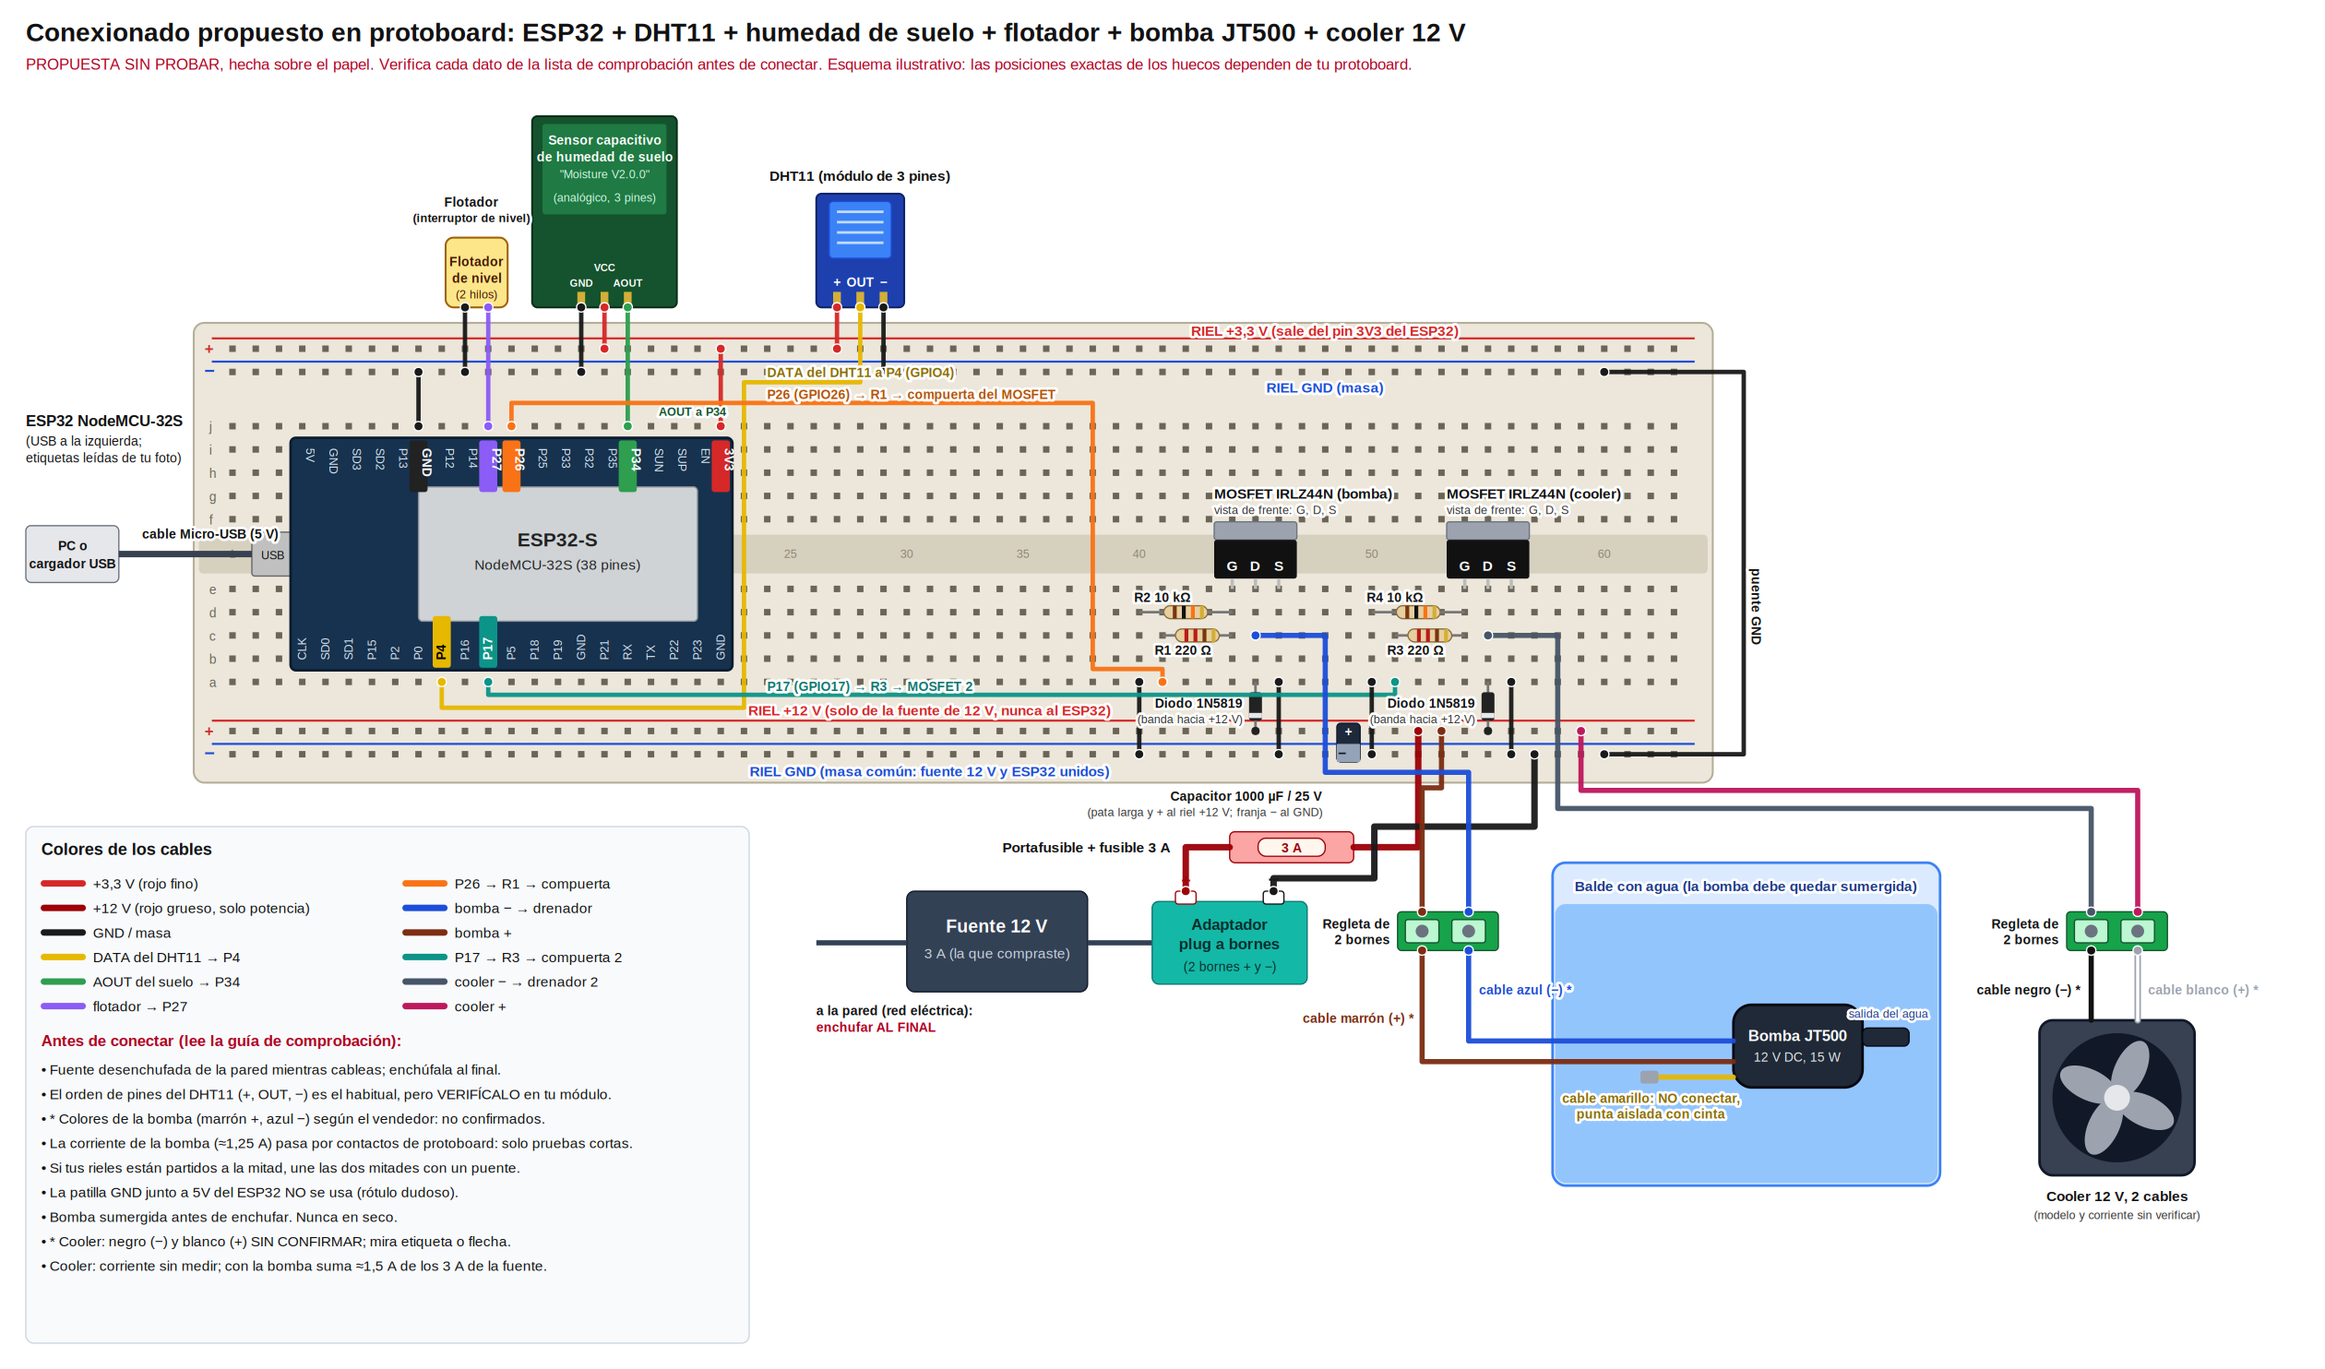
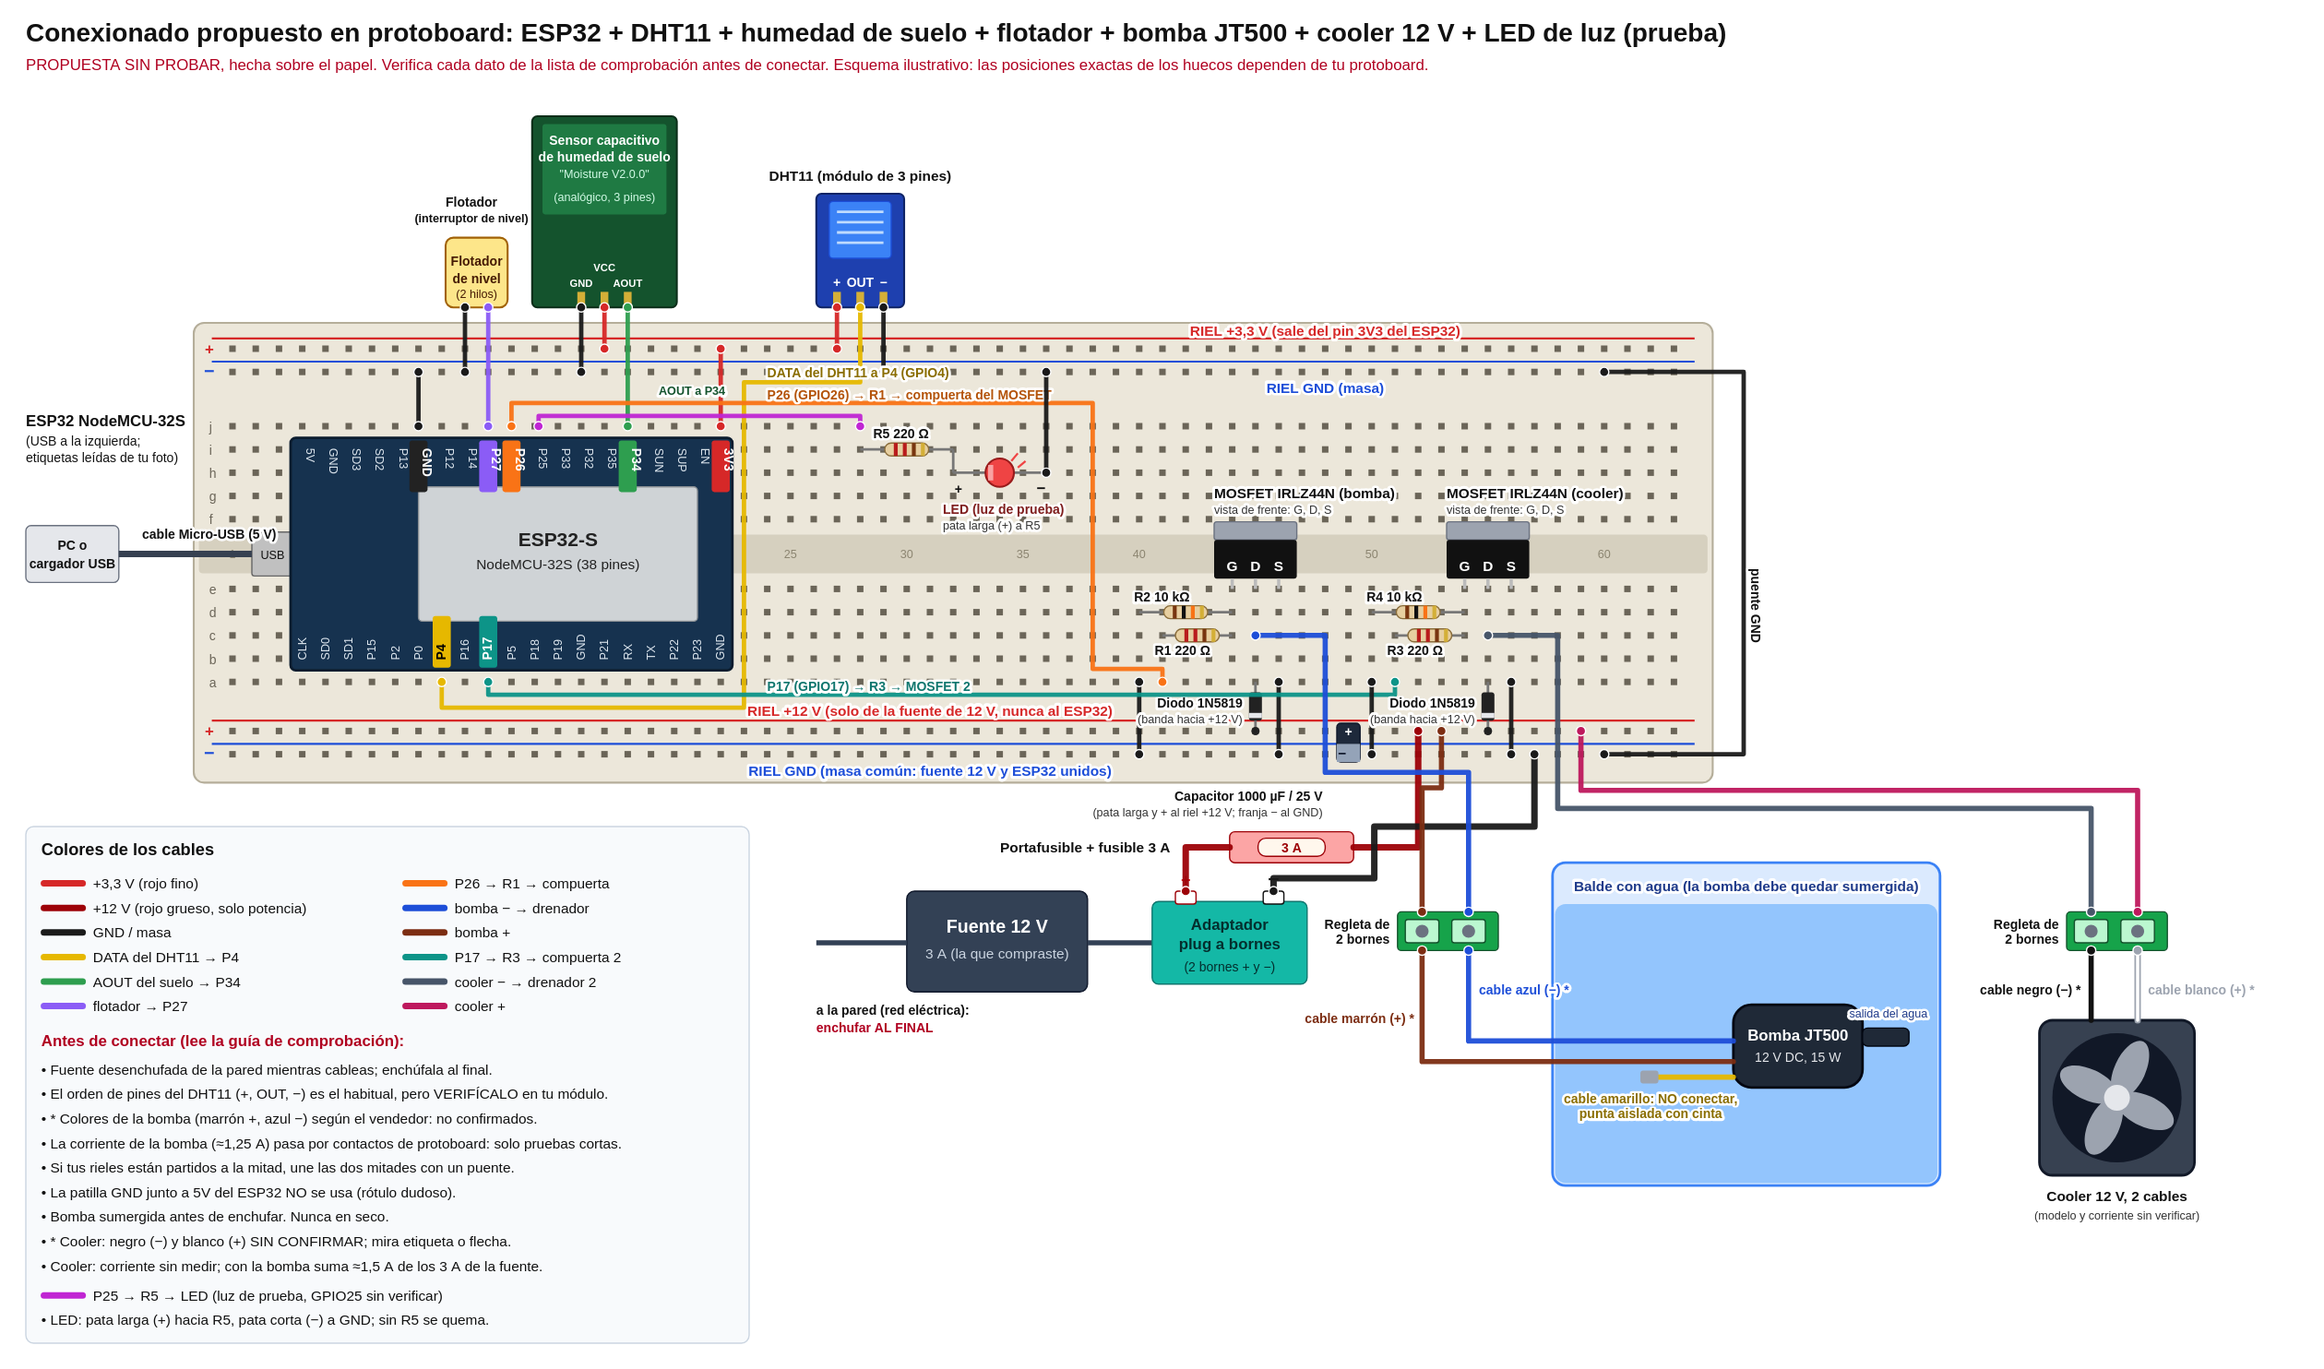
Agrega el control de la luz por horario (20:00-06:00) y el LED al conexionado
- src/light.cpp: salida en GPIO25, encendida de 20:00 a 06:00 hora local (UTC-3);
  sin hora NTP queda apagada; la tecla 'l' alterna modo manual y automatico.
- main.cpp: integra la luz y pasa configTime a UTC-3 (MQTT sigue publicando en UTC).
- Probada en hardware solo la tecla 'l' con un LED (confirmacion del usuario); el
  horario automatico aun no se observo.
- Conexionado: LED con R5 de 220 ohm en P25 (gráfico y tabla) y riesgo de rieles
  divididos de la protoboard.

diff --git a/src/light.cpp b/src/light.cpp
@@ -1,0 +1,64 @@
+#include "light.h"
+#include <time.h>
+
+constexpr uint8_t LIGHT_PIN = 25;
+constexpr int LIGHT_ON_HOUR = 20;   // enciende a las 20:00 (hora local)
+constexpr int LIGHT_OFF_HOUR = 6;   // apaga a las 06:00 (hora local)
+constexpr time_t MIN_VALID_EPOCH = 1704067200;  // 2024-01-01: antes de eso no hay hora NTP
+
+static bool on = false;
+static bool manual = false;
+
+static void setLight(bool state) {
+  digitalWrite(LIGHT_PIN, state ? HIGH : LOW);
+  on = state;
+}
+
+// true si la hora local cae dentro de la ventana de encendido (puede cruzar la medianoche).
+static bool inWindow(int hour) {
+  if (LIGHT_ON_HOUR < LIGHT_OFF_HOUR) return hour >= LIGHT_ON_HOUR && hour < LIGHT_OFF_HOUR;
+  return hour >= LIGHT_ON_HOUR || hour < LIGHT_OFF_HOUR;
+}
+
+void lightBegin() {
+  pinMode(LIGHT_PIN, OUTPUT);
+  digitalWrite(LIGHT_PIN, LOW);  // apagada al arrancar
+}
+
+void lightUpdate() {
+  if (manual) return;
+
+  bool want = false;
+  time_t now = time(nullptr);
+  if (now >= MIN_VALID_EPOCH) {
+    struct tm local;
+    localtime_r(&now, &local);
+    want = inWindow(local.tm_hour);
+  } else {
+    static bool warned = false;
+    if (!warned) {
+      Serial.println("Luz: sin hora NTP valida, queda apagada");
+      warned = true;
+    }
+  }
+
+  if (want != on) {
+    setLight(want);
+    Serial.printf("Luz: %s (horario)\n", want ? "encendida" : "apagada");
+  }
+}
+
+void lightToggleManual() {
+  if (!manual) {
+    manual = true;
+    setLight(!on);
+    Serial.printf("Luz: modo manual, %s\n", on ? "encendida" : "apagada");
+  } else {
+    manual = false;
+    Serial.println("Luz: modo automatico");
+    lightUpdate();
+  }
+}
+
+bool lightIsOn() { return on; }
+bool lightIsManual() { return manual; }

diff --git a/src/main.cpp b/src/main.cpp
@@ -6,6 +6,7 @@
 #include "moisture.h"
 #include "pump.h"
 #include "cooler.h"
+#include "light.h"
 
 constexpr uint8_t DHT_PIN = 4;
 constexpr uint32_t TIMEOUT_US = 200;
@@ -172,6 +173,7 @@ void setup() {
   moistureBegin();
   pumpBegin();
   coolerBegin();
+  lightBegin();
 
   bootId = esp_random();
   snprintf(topic, sizeof(topic), "fvh/%s/lecturas", DEVICE_ID);
@@ -179,7 +181,9 @@ void setup() {
 
   WiFi.mode(WIFI_STA);
   WiFi.setAutoReconnect(true);
-  configTime(0, 0, "pool.ntp.org", "time.google.com");  // UTC; sincroniza al haber red
+  // Hora local Argentina (UTC-3, sin horario de verano) para el horario de la luz.
+  // La publicacion MQTT sigue en UTC: usa gmtime_r sobre el epoch, que no depende de esto.
+  configTime(-3 * 3600, 0, "pool.ntp.org", "time.google.com");
   mqtt.setServer(MQTT_HOST, MQTT_PORT);
   mqtt.setBufferSize(MQTT_BUFFER_SIZE);
   mqtt.setSocketTimeout(3);
@@ -192,12 +196,15 @@ void loop() {
 
   // Prueba manual de la bomba: 'p' por el monitor serie la enciende (se apaga sola)
   pumpUpdate();
+  lightUpdate();
   while (Serial.available()) {
     char c = Serial.read();
     if (c == 'p' && !pumpIsOn()) {
       pumpStart();
       Serial.println("Bomba: encendida");
     }
+    // Luz: 'l' pasa a modo manual (invierte el estado); otra 'l' vuelve al horario
+    if (c == 'l') lightToggleManual();
     // Prueba manual del cooler: 'f' lo alterna (sin limite de tiempo)
     if (c == 'f') {
       if (coolerIsOn()) {

diff --git a/src/light.h b/src/light.h
@@ -1,0 +1,12 @@
+#pragma once
+#include <Arduino.h>
+
+// Luz de cultivo en GPIO25 (salida digital; la etapa de potencia aun no esta elegida).
+// Modo automatico: encendida de LIGHT_ON_HOUR a LIGHT_OFF_HOUR (hora local, ventana que
+// cruza la medianoche). Sin hora valida (sin NTP) queda apagada. Modo manual: ignora el
+// horario hasta volver al automatico.
+void lightBegin();
+void lightUpdate();         // llamar en cada vuelta del loop
+void lightToggleManual();   // automatico -> manual (estado invertido) -> automatico
+bool lightIsOn();
+bool lightIsManual();

diff --git a/docs/hardware-inventory.md b/docs/hardware-inventory.md
@@ -51,7 +51,7 @@ Cara con el logo NodeMCU y la rotulación "ESP-32S V1.1", con el USB abajo. Vist
 | Bomba de agua | Modelo JT500, 12 V DC, 15 W (etiqueta, leída por el usuario). Comprada. Prueba corta sola el 2026-11-04: gira, silenciosa, caudal fuerte (observación del usuario). Corriente sin medir. Cable amarillo: función desconocida, sin conectar | Probada sola el 2026-11-04 y con el ESP32 el 2026-11-16 (ver Estado de las pruebas) |
 | Cooler (ventilador) | Genérico, 12 V DC, 2 cables, negro y blanco (indicado por el usuario el 2026-11-12). Corriente y modelo **sin verificar**. Polaridad: se montó negro (−) y blanco (+) sin leerla en etiqueta o flecha; el cooler funciona así (observación del usuario) | Indicado por el usuario; probado con el ESP32 y el MOSFET |
 | MOSFET en uso en la etapa de la bomba: etiqueta **IRLZ44Z** (leída por el usuario el 2026-11-16), el que venía de la etapa del cooler. Antes figuraba como IRLZ44N; los datos de [pcb/esquematico-pcb.pdf](pcb/esquematico-pcb.pdf) son de la IRLZ44N y **no se han actualizado**. Datos de la IRLZ44Z en [conexionado-protoboard.md](conexionado-protoboard.md) | Hay otro MOSFET, que el 2026-11-16 pareció no funcionar, pero esa prueba se hizo con un cable rojo suelto en el adaptador: **no se puede concluir que esté defectuoso**; su modelo no está confirmado | Confirmado por el usuario (etiqueta); funciona con el cooler y con la bomba |
-| Iluminación | No seleccionada |
+| Iluminación | Lámpara **no seleccionada**. Salida de control propuesta en GPIO25 (existe en el serigrafiado, sin conectar ni verificar). Criterios de compra pendientes de documentar |
 | Fuente de 12 V y 3 A + adaptador plug a bornes | Comprados por el usuario para la bomba; sin medir con multímetro | Confirmado por el usuario |
 | Otras fuentes de alimentación | No seleccionadas |
 | Etapas de potencia (relés, transistores) y protecciones | No seleccionadas |
@@ -69,6 +69,7 @@ Cara con el logo NodeMCU y la rotulación "ESP-32S V1.1", con el USB abajo. Vist
 | Bomba JT500 alimentada sola con la fuente de 12 V (sin ESP32) | Prueba corta el 2026-11-04: gira, silenciosa, caudal fuerte (observación del usuario). Sin medir corriente ni tiempo de uso continuo |
 | Bomba JT500 con el ESP32 (`src/pump.cpp`, GPIO26, tecla `p`) | Probada en hardware el 2026-11-16 (observación del usuario): con un ESP32 nuevo, MOSFET IRLZ44Z (el del cooler) y R2 de 10 kΩ, la bomba gira cuando se pulsa `p` y no arranca al enchufar. La etapa del cooler está desconectada. Sin medir corriente, calentamiento del MOSFET ni la tensión de compuerta. El firmware no se modificó. Antes de esto, las pruebas se falsearon por un cable rojo suelto del adaptador plug a bornes. El primer ESP32 dejó de responder tras un posible contacto de un cable de 12 V (sin confirmar) y se reemplazó |
 | Cooler (`src/cooler.cpp`, GPIO17) | Implementado y compilado (`pio run`, 2026-11-12). Probado en hardware: el usuario confirmó que al pulsar `f` en el monitor serie el cooler funciona (observación del usuario, 2026-11-12). Tecla `f` alterna encendido/apagado, sin límite de tiempo. No se midió corriente ni calentamiento del MOSFET. Sin control automático ni MQTT |
+| Luz: horario automático 20:00–06:00 UTC-3 y tecla `l` (`src/light.cpp`, GPIO25) | Implementada y compilada (`pio run`, 2026-11-20). Probada en hardware el 2026-11-20 (confirmación del usuario): con la tecla `l` un LED con resistencia de 220 Ω enciende. El horario automático **aún no se observó**; no hay lámpara ni etapa de potencia conectadas |
 | Resto del sistema | No implementado |
 
 ## Datos pendientes de verificar

diff --git a/docs/conexionado-protoboard.md b/docs/conexionado-protoboard.md
@@ -24,6 +24,7 @@ Estado (2026-11-16): el sensor de suelo **no está conectado** (con P34 al aire 
 ### Riesgos detectados
 
 1. **Corriente de la bomba por la protoboard.** Unos 1,25 A (más el arranque) pasan por contactos de protoboard y cables finos; el valor típico que se cita para estos contactos es de alrededor de 1 A (dato general, no medido). Para este montaje: **solo pruebas cortas**, toca el MOSFET y los cables para notar calentamiento. Para uso continuo, pasar la etapa de potencia a placa perforada o bornes. El cooler comparte el riel de +12 V: si consume unos 0,25 A (supuesto), el total ronda 1,5 A, aún por debajo del fusible de 3 A, pero hay que medirlo.
+1a. **Rieles divididos en segmentos.** En la protoboard del usuario las bandas de + y − están partidas en segmentos: un hueco del riel puede no estar conectado con el otro extremo. Por eso el LED de la luz (GPIO25) no encendió hasta cambiar el retorno a GND de segmento (observación del usuario, 2026-11-20). Comprobar la continuidad de cada riel, o unir los segmentos con un puente, antes de dar por buena una conexión; afecta también a los rieles de +3,3 V, +12 V y GND.
 1b. **Polaridad del cooler.** Funciona con negro (−) y blanco (+), pero no se leyó en su etiqueta; si cambias de cooler, confírmala antes de conectarlo.
 2. **Polaridad.** Un error de polaridad puede dañar la bomba (si tiene electrónica interna) y el capacitor electrolítico. El diodo en inverso quemaría el fusible.
 3. **Sin protección contra marcha en seco todavía.** Requiere firmware que lea el flotador y bloquee el riego. Hasta entonces, la bomba solo se prueba a mano y sumergida.
@@ -62,6 +63,8 @@ Pines del ESP32 leídos del serigrafiado de la foto (ver [hardware-inventory.md]
 | 24 | **Drenador (D)** del MOSFET 2 | Cable negro del cooler (vía regleta 2) y ánodo del diodo 2 | Color según el usuario; polaridad sin confirmar |
 | 25 | Cátodo del diodo 2 1N5819 (banda) | Riel inferior +12 V | |
 | 26 | Cable blanco del cooler (+) | Riel inferior +12 V (vía regleta 2) | Polaridad sin confirmar |
+| 27 | Pin **P25** (GPIO25) del ESP32 | Resistencia R5 220 Ω → ánodo (pata larga, +) del LED | LED de prueba de la luz (`src/light.cpp`). Pin sin verificar en hardware |
+| 28 | Cátodo (pata corta, −) del LED | Riel superior `−` (GND) | Sin R5 el LED se quema. Es solo una luz indicadora: la lámpara real y su etapa de potencia no están elegidas |
 | — | Cable amarillo de la bomba | **No se conecta**, punta aislada | |
 
 El ESP32 se alimenta por su USB; los 12 V solo van a la bomba y al cooler. **Nunca** conectes 12 V a un pin ni al 3V3 del ESP32.

diff --git a/docs/firmware.md b/docs/firmware.md
@@ -26,6 +26,14 @@ Contrato de referencia (fuente de verdad): `docs/mqtt-contract.md` del backend `
 - Lectura inválida (2026-11-20, **compila; no probado en hardware**): si el promedio de las 16 muestras es 0, el campo `soilMoistureRaw` se omite del mensaje (el backend lo guarda como nulo y el frontend muestra "Sin datos"). Un capacitivo sano no llega a 0 V ni en agua (~1 V), así que un 0 indica pin flotando o sensor sin alimentación. Motivo: el 2026-11-20 se vieron en la base saltos entre 0 y ~3700 (el usuario reportó que marcaba 0 por momentos y de golpe ~3260; no se registró en qué condición estaba el sensor). Esto **no corrige el cableado**: solo evita guardar ese dato como medición. Por el monitor serie se imprime además el mínimo y el máximo de las 16 muestras para distinguir ruido de pérdida de señal.
 - Estado: compilado y probado en el ESP32 el 2026-10-29 (camino feliz: publica, llega al broker y se guarda). Casos de fallo sin probar; el valor sigue **sin calibrar**.
 
+## Iluminación (horario automático)
+
+- `src/light.cpp`, salida en **GPIO25** (pin del serigrafiado de la placa). Hoy no hay luz ni etapa de potencia conectada: la salida se probó con un LED y una resistencia de 220 Ω.
+- Modo automático: encendida de **20:00 a 06:00** hora local (ventana que cruza la medianoche; constantes `LIGHT_ON_HOUR` y `LIGHT_OFF_HOUR`). Zona horaria fija **UTC-3** (Argentina, sin horario de verano), configurada en `configTime` de `main.cpp`. La publicación MQTT sigue en UTC.
+- Sin hora NTP válida (sin Wi-Fi desde el arranque) la luz queda **apagada**. Si se corta el Wi-Fi después de sincronizar, el reloj interno sigue y el horario continúa.
+- Tecla `l` por el monitor serie: pasa a modo manual (invierte el estado actual); otra `l` vuelve al horario. Tras un reinicio vuelve al modo automático.
+- Estado: implementado y compilado (`pio run`, 2026-11-20). **Probado en hardware el 2026-11-20 (confirmación del usuario): con la tecla `l` el LED en GPIO25 enciende.** El horario automático (20:00–06:00) **aún no se observó** funcionando. Primer intento fallido por un cableado: los rieles de la protoboard estaban divididos en segmentos y el LED no recibía GND. Sin control por MQTT.
+
 ## Diferencias con el contrato
 
 - **QoS 0**: PubSubClient no publica con QoS 1; el contrato pide QoS 1. Un mensaje puede perderse sin aviso. Aceptado para la primera versión.

diff --git a/CLAUDE.md b/CLAUDE.md
@@ -41,7 +41,7 @@ La lectura del DHT11 ya funciona: `src/main.cpp` lee temperatura y humedad y las
 
 Wi-Fi y publicación MQTT (Mosquitto del backend `sensores`) están implementados y compilan; el camino feliz fue probado en hardware el 2026-10-29 (llega al broker y se guarda en la base); los casos de fallo **no están probados**. Ver [docs/firmware.md](docs/firmware.md). Credenciales en `include/config.h` (no versionado; modelo `include/config.example.h`).
 
-Actuadores: la bomba (`src/pump.cpp`, GPIO26, tecla `p`, se apaga sola a los 3 s) y el cooler (`src/cooler.cpp`, GPIO17, tecla `f`, sin límite de tiempo) se manejan a mano por el monitor serie. El cooler fue probado en hardware el 2026-11-12 (confirmación del usuario) y su etapa está hoy desconectada; la bomba fue probada con el ESP32 el 2026-11-16 (confirmación del usuario: gira al pulsar `p`; MOSFET etiquetado IRLZ44Z, con R2 de 10 kΩ; sin medir corriente ni calentamiento). Sin control automático ni MQTT. Conexionado: [docs/conexionado-protoboard.md](docs/conexionado-protoboard.md).
+Actuadores: la bomba (`src/pump.cpp`, GPIO26, tecla `p`, se apaga sola a los 3 s) y el cooler (`src/cooler.cpp`, GPIO17, tecla `f`, sin límite de tiempo) se manejan a mano por el monitor serie. El cooler fue probado en hardware el 2026-11-12 (confirmación del usuario) y su etapa está hoy desconectada; la bomba fue probada con el ESP32 el 2026-11-16 (confirmación del usuario: gira al pulsar `p`; MOSFET etiquetado IRLZ44Z, con R2 de 10 kΩ; sin medir corriente ni calentamiento). Luz: `src/light.cpp` (GPIO25) con horario automático 20:00–06:00 (UTC-3) y tecla `l` manual; compila; la tecla `l` se probó en hardware el 2026-11-20 con un LED (confirmación del usuario), el horario automático **no se observó aún** y no hay lámpara ni etapa de potencia elegidas. Bomba y cooler sin control automático ni MQTT. Conexionado: [docs/conexionado-protoboard.md](docs/conexionado-protoboard.md).
 
 ## Dirección: Kit Starter autónomo (en diseño)
 
